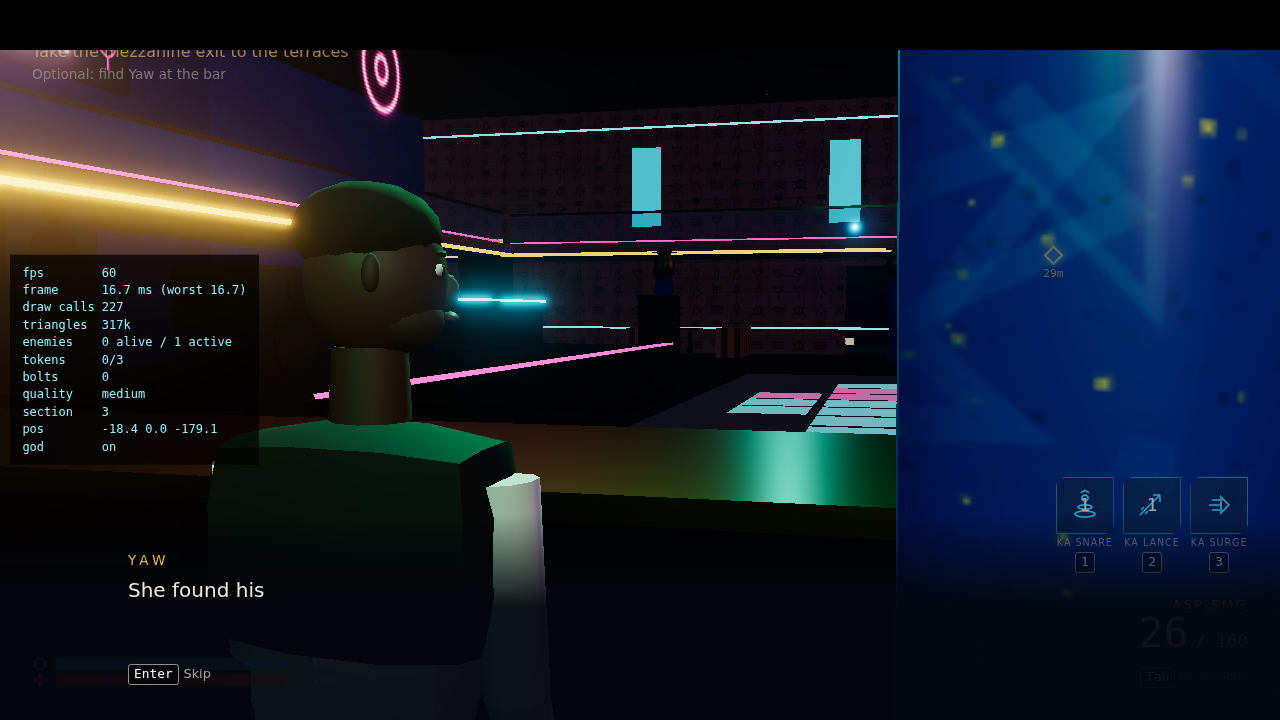
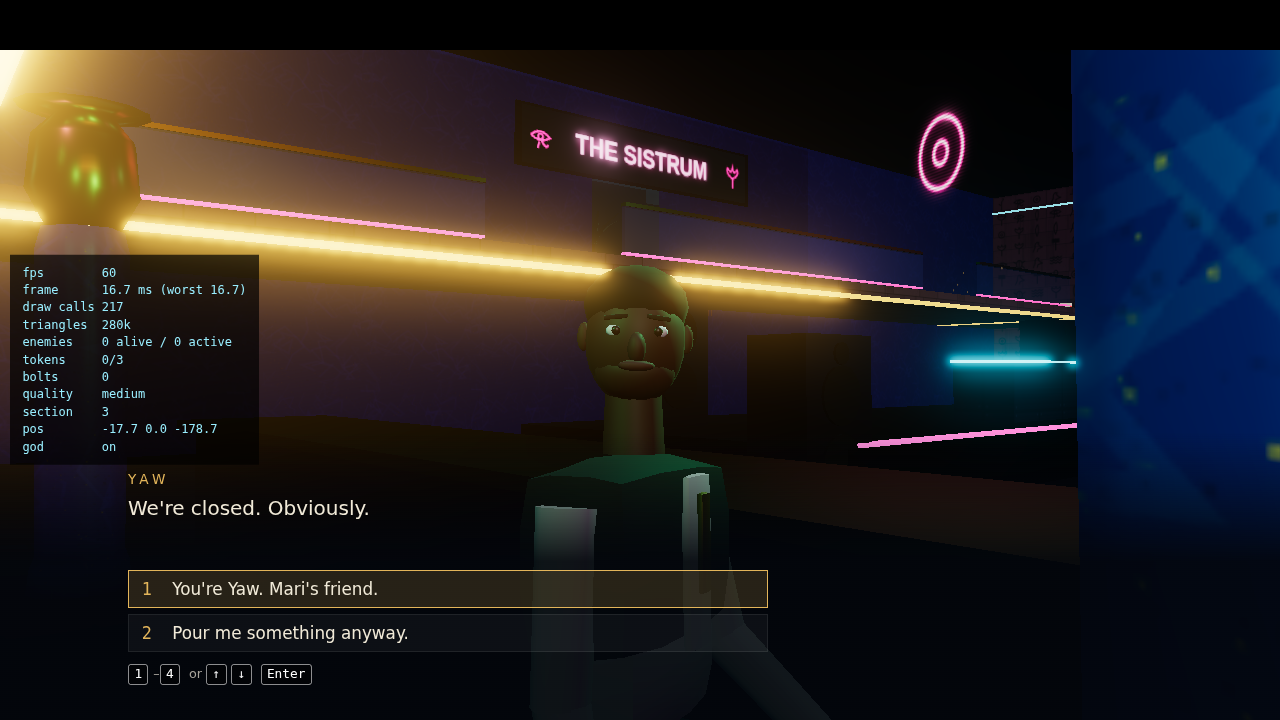
Fix camera stuck on the title shot after Start; safer high quality
Choosing Start ran the title camera once more in the same frame, so the
camera stayed on the title view: Imani was off-screen and the game looked
frozen. The camera now cuts behind her on Start. New real-time `boot`
check (title -> Start -> walk) fails if the camera isn't following.
Menus ignore the keypress that opened them.

High quality: pixel ratio capped at 1.5; post-processing verifies its
render targets and falls back (no MSAA, 8-bit colour, no post) when the
GPU rejects them; a lost WebGL context shows a notice and lowers the
saved quality.

Claude-Session: https://claude.ai/code/session_01CzbQw9URJZvmmGQycdPCbK

diff --git a/src/core/Renderer.ts b/src/core/Renderer.ts
@@ -21,6 +21,11 @@ export class Renderer {
   private qualityListeners: ((q: QualityConfig, level: QualityLevel) => void)[] = [];
   /** Draw calls and triangles of the last frame, across all passes. */
   readonly frameStats = { calls: 0, triangles: 0 };
+  /** Post-processing fallbacks taken because this GPU rejected a render target. */
+  postFallback: 0 | 1 | 2 | 3 = 0;
+  private verifyPost = false;
+  private readonly lostListeners: (() => void)[] = [];
+  contextLost = false;
 
   constructor(
     private readonly container: HTMLElement,
@@ -44,6 +49,12 @@ export class Renderer {
     this.renderer.domElement.id = 'game-canvas';
     this.renderer.domElement.tabIndex = 0;
     container.appendChild(this.renderer.domElement);
+    // A GPU reset (too much memory, driver timeout) blanks the canvas; tell the game.
+    this.renderer.domElement.addEventListener('webglcontextlost', (e) => {
+      e.preventDefault();
+      this.contextLost = true;
+      for (const l of this.lostListeners) l();
+    });
     window.addEventListener('resize', () => this.resize());
     this.applyQuality();
     this.resize();
@@ -55,6 +66,10 @@ export class Renderer {
 
   onQualityChange(l: (q: QualityConfig, level: QualityLevel) => void): void {
     this.qualityListeners.push(l);
+  }
+
+  onContextLost(l: () => void): void {
+    this.lostListeners.push(l);
   }
 
   setQuality(level: QualityLevel): void {
@@ -81,12 +96,18 @@ export class Renderer {
     this.composer?.dispose();
     this.composer = null;
     this.bloom = null;
-    if (q.bloom) {
+    // Fallback ladder for GPUs that reject a target: 1 = no MSAA, 2 = also
+    // 8-bit colour, 3 = no post-processing at all.
+    if (q.bloom && this.postFallback < 3) {
       const size = this.renderer.getDrawingBufferSize(new THREE.Vector2());
+      const ext = this.renderer.extensions;
+      const halfFloat = ext.has('EXT_color_buffer_float') || ext.has('EXT_color_buffer_half_float');
+      const msaa = q.antialias && this.postFallback < 1 ? Math.min(4, this.renderer.capabilities.maxSamples) : 0;
       const rt = new THREE.WebGLRenderTarget(Math.max(1, size.x), Math.max(1, size.y), {
-        type: THREE.HalfFloatType,
-        samples: q.antialias ? 4 : 0,
+        type: halfFloat && this.postFallback < 2 ? THREE.HalfFloatType : THREE.UnsignedByteType,
+        samples: msaa,
       });
+      this.verifyPost = true;
       this.composer = new EffectComposer(this.renderer, rt);
       this.renderPass = new RenderPass(this.scene, this.camera);
       this.composer.addPass(this.renderPass);
@@ -118,8 +139,32 @@ export class Renderer {
     this.renderer.info.reset();
     if (this.composer) this.composer.render();
     else this.renderer.render(this.scene, this.camera);
+    if (this.verifyPost && this.composer) this.checkPostTargets();
     this.frameStats.calls = this.renderer.info.render.calls;
     this.frameStats.triangles = this.renderer.info.render.triangles;
+  }
+
+  /**
+   * After the first frame with a new post chain, make sure the GPU accepted
+   * its render targets. Some (integrated GPUs, some drivers) refuse
+   * multisampled or half-float targets and the screen just goes black; step
+   * down the fallback ladder instead.
+   */
+  private checkPostTargets(): void {
+    this.verifyPost = false;
+    const gl = this.renderer.getContext();
+    const targets = [this.composer!.renderTarget1, this.composer!.renderTarget2];
+    let ok = true;
+    for (const rt of targets) {
+      this.renderer.setRenderTarget(rt);
+      if (gl.checkFramebufferStatus(gl.FRAMEBUFFER) !== gl.FRAMEBUFFER_COMPLETE) ok = false;
+    }
+    this.renderer.setRenderTarget(null);
+    if (ok || this.postFallback >= 3) return;
+    this.postFallback = (this.postFallback + 1) as 1 | 2 | 3;
+    console.warn(`Post-processing render target rejected by this GPU; fallback level ${this.postFallback}.`);
+    this.applyQuality();
+    this.resize();
   }
 
   setScene(scene: THREE.Scene, camera: THREE.PerspectiveCamera): void {

diff --git a/src/game/Game.ts b/src/game/Game.ts
@@ -1,6 +1,7 @@
 import * as THREE from 'three';
 import { CONFIG, type QualityLevel } from '../config';
 import { MASK, Physics, makeRayHit } from '../core/Physics';
+import { UI } from '../strings';
 import { Renderer } from '../core/Renderer';
 import { GameTime } from '../core/time';
 import { EventBus } from '../core/events';
@@ -205,6 +206,14 @@ export class Game {
     this.renderer.canvas.addEventListener('click', () => {
       if (this.state === 'playing' || this.state === 'dialogue') this.input.requestPointerLock();
     });
+    this.renderer.onContextLost(() => {
+      // Step quality down so a reload doesn't hit the same wall.
+      const lower: QualityLevel = settings.value.quality === 'high' ? 'medium' : 'low';
+      settings.set('quality', lower);
+      this.state = 'paused';
+      this.input.exitPointerLock();
+      this.menus.showNotice(UI.gpuLostTitle, UI.gpuLostBody.replace('{quality}', lower), UI.reload, () => location.reload());
+    });
     document.addEventListener('visibilitychange', () => {
       if (document.hidden && (this.state === 'playing' || this.state === 'dialogue')) this.pause();
     });
@@ -290,7 +299,9 @@ export class Game {
     this.menus.hide();
     this.hud.setVisible(true);
     this.state = 'playing';
+    // Cut straight to the gameplay camera behind her.
     this.rig.endDialogue();
+    this.rig.snap(this.player.position, this.player.yaw);
     this.input.requestPointerLock();
     this.director.setMusic(this.director.section(this.director.current).def.music);
     this.director.onGameStart();
@@ -443,7 +454,9 @@ export class Game {
       case 'title':
         this.menus.pollAnyKey();
         this.menus.update();
-        this.titleCamera(realDt);
+        // Start may have been chosen just now; the title shot must not run
+        // again or it leaves the camera parked on the title view.
+        if (this.state === 'title') this.titleCamera(realDt);
         break;
       case 'playing': {
         if (input.pressed('pause')) {

diff --git a/src/ui/Menus.ts b/src/ui/Menus.ts
@@ -102,6 +102,8 @@ export class Menus {
 
   private show(screen: Screen): void {
     this.graceUntil = performance.now() + 250;
+    // The key that opened this screen must not also activate it.
+    this.game.input.clearTaps();
     if (this.current && this.current !== screen) this.current.el.classList.remove('show');
     this.current = screen;
     screen.el.classList.add('show');
@@ -263,6 +265,13 @@ export class Menus {
       { kind: 'button', label: UI.retry, action: onRetry },
       { kind: 'button', label: UI.quit, action: onQuit },
     ], { footer: `<div class="note">${UI.deathBody}</div>` });
+    s.focus = 0;
+    this.show(s);
+  }
+
+  /** A one-button notice (e.g. the GPU dropped the WebGL context). */
+  showNotice(title: string, body: string, button: string, action: () => void): void {
+    const s = this.build('notice', 'dim', title, [{ kind: 'button', label: button, action }], { footer: `<div class="note">${body}</div>` });
     s.focus = 0;
     this.show(s);
   }

diff --git a/src/input/Input.ts b/src/input/Input.ts
@@ -118,6 +118,13 @@ export class Input {
     this.pressedEdge[idx(a)] = 0;
   }
 
+  /** Forget key/button taps not yet consumed (a menu just opened on that key). */
+  clearTaps(): void {
+    this.codesTapped.clear();
+    this.injectedTap.fill(0);
+    this.stickTap = null;
+  }
+
   /** Automation hooks used by the Playwright scripts and debug API. */
   inject(a: Action, down: boolean): void {
     this.injected[idx(a)] = down ? 1 : 0;

diff --git a/src/strings.ts b/src/strings.ts
@@ -93,6 +93,8 @@ export const UI = {
   paused: 'Paused',
   clickToResume: 'Click to resume',
   deathTitle: 'Flatlined',
+  gpuLostTitle: 'Graphics reset',
+  gpuLostBody: 'Your graphics card dropped the game view (usually too much for it at this quality). Quality is now {quality}. Reload to carry on.',
   deathBody: 'Shields down, vitals gone. The Reach keeps its own.',
   retry: 'Retry from checkpoint',
   endTitle: 'Accounts Closed',

diff --git a/src/config.ts b/src/config.ts
@@ -588,7 +588,9 @@ export const CONFIG = {
       fogDensity: 0.02,
     },
     high: {
-      pixelRatioMax: 2,
+      // 2x on high-DPI laptop screens with MSAA and bloom is too much for
+      // many integrated GPUs; 1.5 keeps it sharp.
+      pixelRatioMax: 1.5,
       antialias: true,
       shadows: true,
       shadowMapSize: 2048,

diff --git a/README.md b/README.md
@@ -90,13 +90,24 @@ do, the workflow's build job still passes but the deploy job fails with
 - **Scripted checks** (headless Chromium via Playwright; build first):
   `npm run build && npm run shots -- <scenario>`. Screenshots go to
   `docs/screenshots/`, and any console errors fail the run. Scenarios:
-  `sections` (every section, draw calls and triangles), `playthrough`
+  `boot` (real-time start from the title screen, as a player would:
+  fails if the camera doesn't follow Imani), `sections` (every section,
+  draw calls and triangles), `playthrough`
   (a bot plays title to end screen; `PAD=1` drives it through a simulated
   gamepad), `boss`, `combat` (time to kill and combos per enemy type),
   `movement`, `camera`, `cover`, `gamepad`, `dialogue`, `title`,
   `closeup`, `anims`, `fight`, `tour`.
 - **Console:** `window.__game` exposes the running game (for example
   `__game.player.teleport({x:0,y:9,z:-290})` or `__game.simulate(2)`).
+
+## If the screen goes black
+
+The quality setting is saved in the browser. If a preset is too much for
+your GPU, the game steps post-processing down by itself; if the GPU drops
+the WebGL context entirely, you get a "Graphics reset" notice and the
+saved quality is lowered for the next load. To force a preset for one
+load, add `?quality=low` (or `medium`) to the URL, then change it in
+Settings. The browser console (F12) shows any shader or WebGL errors.
 
 ## Tuning
 

diff --git a/PLAN.md b/PLAN.md
@@ -146,6 +146,18 @@ Status legend: `[x]` done, `[ ]` not yet, `[~]` partially done (see note).
   aim should land near the 3-4 minute target. Low/high presets render
   without errors (club: low 169 calls / 149k tris, high 243 / 370k).
 
+- Post-M9 fixes from the first real play test: pressing Start ran the
+  title camera once more in the same frame, leaving the camera parked on
+  the title shot (Imani off-screen, looked like no movement). Every scripted
+  run had masked it: they stepped frames manually and the first
+  conversation reset the camera. Fixed, the camera now cuts behind her on
+  Start, and the new `boot` scenario starts in real time from the title and
+  fails if the camera isn't following. Menus also drop the keypress that
+  opened them. High quality: pixel ratio capped at 1.5; post-processing
+  checks its render targets and falls back (no MSAA, 8-bit, no post) if
+  the GPU rejects them; a lost WebGL context shows a notice and lowers the
+  saved quality.
+
 ## Done checklist (from the brief)
 
 - [x] Completable start to finish with keyboard/mouse and with gamepad
